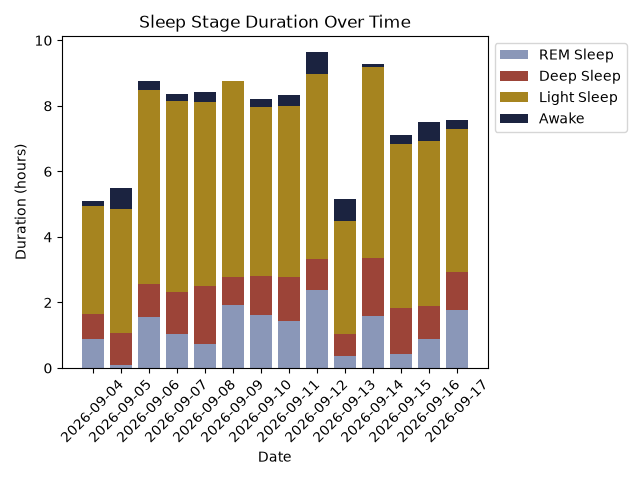
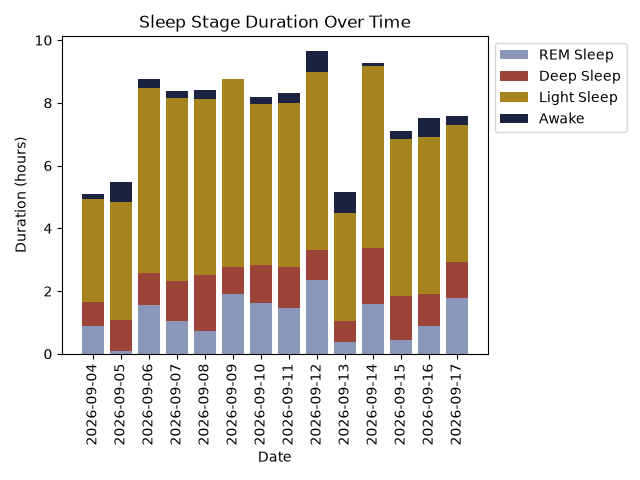
E.4.5: Update to visualizations

diff --git a/dataprep.html b/dataprep.html
@@ -191,7 +191,7 @@
 </figure>
     <figure class="figure">
   <img src="images/dataprep/correlation_heatmap.png" alt="Correlation heatmap of twelve key recovery and activity metrics" style="width:100%; display:block; border-radius:4px;">
-  <figcaption>The metric that correlates most strongly with overall sleep score (0.90) is "total sleep duration." Although, the highest correlation from any individual sleep stage is "REM sleep seconds" at 0.83. Also worth noting, at this stage in data collection, a counterintuitive trend has emerged: on days with an increased drainage of "body battery," that following night's "overall sleep score" and "REM sleep seconds" both tend to decrease.</figcaption>
+  <figcaption>The metric that correlates most strongly with overall sleep score is "sleep total seconds." Although, the highest correlation from any individual sleep stage is "REM sleep seconds." Also worth noting, at this stage in data collection, a counterintuitive trend has emerged: on days with an increased drainage of "body battery," that following night's "overall sleep score" and "REM sleep seconds" both tend to decrease.</figcaption>
 </figure>
     <figure class="figure">
   <img src="images/dataprep/intensity_minutes_by_day.png" alt="Grouped bar chart of moderate and vigorous intensity minutes by day" style="width:100%; display:block; border-radius:4px;">

diff --git a/scripts/visualizations.py b/scripts/visualizations.py
@@ -21,7 +21,7 @@ ax.set_ylabel("Duration (hours)")
 ax.set_xlabel("Date")
 ax.legend(loc="upper left", bbox_to_anchor=(1, 1))
 
-plt.xticks(rotation = 45)
+plt.xticks(rotation = 90)
 plt.tight_layout()
 plt.savefig("../images/dataprep/sleep_stage_over_time_bar.png")
 plt.close()
